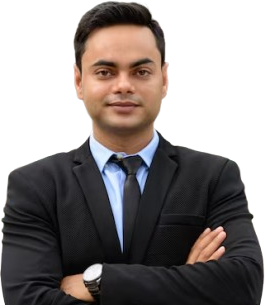
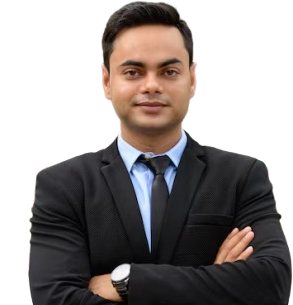
frontend: foto di kartu konsultan, 12 foto tanpa wajah kembar, penanda fokus marun
- Kartu direktori konsultan: kotak inisial diganti bingkai foto marun (foto sama dengan banner popup)
- 12 foto konsultan (6 pria, 6 wanita); dibagi berurutan per kelompok mengikuti urutan daftar sehingga
  satu halaman tidak berisi wajah kembar; popup memakai foto yang sama dengan kartunya
- Foto dirapikan: ruang transparan dibuang, dipotong sampai pinggang, kepala diletakkan tepat di tengah
- Penanda fokus global: garis marun tipis (putih di atas latar marun), menggantikan kotak emas + bayangan hitam

diff --git a/frontend/components/DirektoriKonsultan.tsx b/frontend/components/DirektoriKonsultan.tsx
@@ -1,7 +1,9 @@
 "use client";
 import { useEffect, useState } from "react";
+import Image from "next/image";
 import Link from "next/link";
 import { cariKonsultan, getKategoriKasus, getLokasi } from "@/lib/api";
+import { petaFotoKonsultan } from "@/lib/foto-konsultan";
 import { PROVINSI } from "@/lib/provinsi";
 import type { HasilKonsultan, KategoriKasus, Konsultan, Profesi } from "@/types/api";
 import DetailKonsultan from "./DetailKonsultan";
@@ -10,10 +12,20 @@ import { btn, container, Notice, Panel } from "./ui";
 
 const PROFESI: Record<Profesi, string> = { notaris_ppat: "Notaris/PPAT", advokat: "Advokat" };
 
-type Pilih = (k: Konsultan, profesi: Profesi) => void;
+type Pilih = (k: Konsultan, profesi: Profesi, foto?: string) => void;
 
 // Seluruh kartu bisa diklik untuk membuka popup detail
-function KartuKonsultan({ k, namaKategori, onPilih }: { k: Konsultan; namaKategori: (id: string) => string; onPilih: () => void }) {
+function KartuKonsultan({
+  k,
+  foto,
+  namaKategori,
+  onPilih,
+}: {
+  k: Konsultan;
+  foto?: string;
+  namaKategori: (id: string) => string;
+  onPilih: () => void;
+}) {
   const inisial = k.nama.replace(/^(Dr\.|H\.|Hj\.)\s*/i, "").charAt(0).toUpperCase();
   return (
     <button
@@ -23,9 +35,23 @@ function KartuKonsultan({ k, namaKategori, onPilih }: { k: Konsultan; namaKatego
       className="lift group flex h-full w-full flex-col rounded-3xl border border-line bg-surface p-5 text-left shadow-soft hover:border-primary/40"
     >
       <div className="flex items-start gap-4">
-        <span className="flex size-12 shrink-0 items-center justify-center rounded-2xl bg-primary-soft text-lg font-bold text-primary" aria-hidden>
-          {inisial}
-        </span>
+        {foto ? (
+          // Foto yang sama dengan banner popup detail, di bingkai marun kecil (diperbesar ke kepala-bahu)
+          <span className="relative size-14 shrink-0 overflow-hidden rounded-2xl bg-[#650000]" aria-hidden>
+            <Image
+              src={foto}
+              alt=""
+              fill
+              sizes="56px"
+              unoptimized={foto.startsWith("http")}
+              className="origin-top scale-[1.35] object-cover object-top"
+            />
+          </span>
+        ) : (
+          <span className="flex size-14 shrink-0 items-center justify-center rounded-2xl bg-primary-soft text-lg font-bold text-primary" aria-hidden>
+            {inisial}
+          </span>
+        )}
         <div className="min-w-0 flex-1">
           <h3 className="font-bold text-ink">{k.nama}</h3>
           <p className="mt-1 flex items-center gap-1.5 text-sm text-ink-soft">
@@ -126,6 +152,7 @@ function Bagian({
   const [posisi, setPosisi] = useState({ kunci: resetKey, page: 1 });
   const page = posisi.kunci === resetKey ? posisi.page : 1;
   const setPage = (p: number) => setPosisi({ kunci: resetKey, page: p });
+  const peta = petaFotoKonsultan(daftar);
   const totalPages = Math.max(1, Math.ceil(daftar.length / PER_PAGE));
   const halaman = daftar.slice((page - 1) * PER_PAGE, page * PER_PAGE);
   const lokasi = kota ? `${kota}, ${provinsi}` : provinsi;
@@ -139,7 +166,7 @@ function Bagian({
           <ul className="mt-3 grid grid-cols-1 gap-4 md:grid-cols-2">
             {halaman.map((k, i) => (
               <li key={k.id} className="fade-up" style={{ animationDelay: `${i * 60}ms` }}>
-                <KartuKonsultan k={k} namaKategori={namaKategori} onPilih={() => onPilih(k, profesi)} />
+                <KartuKonsultan k={k} foto={peta.get(k.id)} namaKategori={namaKategori} onPilih={() => onPilih(k, profesi, peta.get(k.id))} />
               </li>
             ))}
           </ul>
@@ -163,8 +190,8 @@ export default function DirektoriKonsultan({ kategoriAwal }: { kategoriAwal?: st
   const [lokasi, setLokasi] = useState<Record<string, string[]>>({});
   const [ulang, setUlang] = useState(0);
   const [hasil, setHasil] = useState<{ kunci: string; data?: HasilKonsultan; error?: string } | null>(null);
-  const [dipilih, setDipilih] = useState<{ k: Konsultan; profesi: Profesi } | null>(null);
-  const pilih: Pilih = (k, profesi) => setDipilih({ k, profesi });
+  const [dipilih, setDipilih] = useState<{ k: Konsultan; profesi: Profesi; foto?: string } | null>(null);
+  const pilih: Pilih = (k, profesi, foto) => setDipilih({ k, profesi, foto });
   const kunci = `${kategori}|${provinsi}|${kota}|${ulang}`;
   const memuat = !!kategori && hasil?.kunci !== kunci;
   const kotaTersedia = provinsi ? lokasi[provinsi] ?? [] : [];
@@ -317,6 +344,7 @@ export default function DirektoriKonsultan({ kategoriAwal }: { kategoriAwal?: st
 
       <DetailKonsultan
         konsultan={dipilih?.k ?? null}
+        foto={dipilih?.foto}
         profesi={dipilih ? PROFESI[dipilih.profesi] : ""}
         namaKategori={namaKategori}
         onClose={() => setDipilih(null)}

diff --git a/frontend/lib/foto-konsultan.ts b/frontend/lib/foto-konsultan.ts
@@ -3,9 +3,10 @@ import type { Konsultan } from "@/types/api";
 // Foto banner detail konsultan. Data dummy belum punya field `foto`, jadi foto dipilih dari public/konsultan
 // sesuai nama depan, bergiliran berdasarkan nomor id. Kalau data sudah membawa `foto`, itu yang dipakai.
 // Nama yang tidak ada di daftar di bawah tetap memakai lingkaran inisial.
+// 6 foto per kelompok: dengan giliran berdasarkan nomor id, satu halaman direktori (8 kartu) jarang berisi wajah kembar
 const FOTO = {
-  pria: ["/konsultan/notaris1.png", "/konsultan/notaris2.png", "/konsultan/notaris5.png"],
-  wanita: ["/konsultan/notaris3.png", "/konsultan/notaris4.png", "/konsultan/notaris6.png"],
+  pria: [1, 2, 5, 10, 11, 12].map((n) => `/konsultan/notaris${n}.png`),
+  wanita: [3, 4, 6, 7, 8, 9].map((n) => `/konsultan/notaris${n}.png`),
 };
 
 // Kelompok nama depan mengikuti NAMA_DEPAN di data_engineer/scripts/10_make_konsultan_dummy.py,
@@ -35,12 +36,36 @@ const NAMA_LENGKAP: Record<string, keyof typeof FOTO> = {
   "Andi Nurul Fadillah": "wanita",
 };
 
-export function fotoKonsultan(k: Konsultan): string | undefined {
-  if (k.foto) return k.foto;
+function kelompokFoto(k: Konsultan): keyof typeof FOTO | undefined {
   const nama = k.nama.split(",")[0].replace(/^((Dr|H|Hj|Prof)\.\s*)+/i, "").trim();
   const depan = nama.split(/\s+/)[0];
-  const kelompok = NAMA_LENGKAP[nama] ?? (depan === "Andi" ? undefined : PRIA.has(depan) ? "pria" : WANITA.has(depan) ? "wanita" : undefined);
+  return NAMA_LENGKAP[nama] ?? (depan === "Andi" ? undefined : PRIA.has(depan) ? "pria" : WANITA.has(depan) ? "wanita" : undefined);
+}
+
+// Foto satu konsultan tanpa konteks daftar (bergiliran menurut nomor id)
+export function fotoKonsultan(k: Konsultan): string | undefined {
+  if (k.foto) return k.foto;
+  const kelompok = kelompokFoto(k);
   if (!kelompok) return undefined;
   const daftar = FOTO[kelompok];
   return daftar[(parseInt(k.id.replace(/\D/g, ""), 10) || 0) % daftar.length];
+}
+
+// Foto untuk satu daftar yang sedang ditampilkan: dibagi berurutan per kelompok (pria/wanita) mengikuti urutan
+// daftar, jadi kartu yang berdekatan (satu halaman berisi 8) hampir tidak pernah berwajah sama.
+// Giliran menurut nomor id saja masih menghasilkan wajah kembar karena id berselisih 6 bisa sekelompok.
+export function petaFotoKonsultan(daftar: Konsultan[]): Map<string, string> {
+  const hitung = { pria: 0, wanita: 0 };
+  const peta = new Map<string, string>();
+  for (const k of daftar) {
+    if (k.foto) {
+      peta.set(k.id, k.foto);
+      continue;
+    }
+    const kelompok = kelompokFoto(k);
+    if (!kelompok) continue;
+    const foto = FOTO[kelompok];
+    peta.set(k.id, foto[hitung[kelompok]++ % foto.length]);
+  }
+  return peta;
 }

diff --git a/frontend/components/DetailKonsultan.tsx b/frontend/components/DetailKonsultan.tsx
@@ -27,11 +27,13 @@ function Baris({ icon, label, children }: { icon: IconName; label: string; child
 // Popup detail satu Notaris/PPAT atau advokat. Kompatibel dengan data lama (kontak) dan baru (telepon, peta, jadwal, tarif).
 export default function DetailKonsultan({
   konsultan: k,
+  foto: fotoKartu,
   profesi,
   namaKategori,
   onClose,
 }: {
   konsultan: Konsultan | null;
+  foto?: string; // foto yang sama dengan kartu yang diklik
   profesi: string;
   namaKategori: (id: string) => string;
   onClose: () => void;
@@ -53,7 +55,7 @@ export default function DetailKonsultan({
     .slice(0, 2)
     .map((kata) => kata.charAt(0).toUpperCase())
     .join("");
-  const foto = k ? fotoKonsultan(k) : undefined;
+  const foto = fotoKartu ?? (k ? fotoKonsultan(k) : undefined);
   const telepon = bersih(k?.telepon);
   const jadwal = bersih(k?.jadwal);
   const tarif = bersih(k?.tarif);

diff --git a/frontend/app/page.tsx b/frontend/app/page.tsx
@@ -47,7 +47,7 @@ export default function Home() {
     // overflow-x-clip: kartu timeline yang menunggu meluncur masuk dari samping tidak boleh membuat halaman bisa digeser ke samping di HP
     <main className="overflow-x-clip">
       {/* Pembuka: satu layar penuh, maroon dengan foto patung keadilan di latar */}
-      <section className={`relative overflow-hidden bg-[#650000] ${NAV_OFFSET} flex min-h-svh flex-col text-white`}>
+      <section className={`latar-gelap relative overflow-hidden bg-[#650000] ${NAV_OFFSET} flex min-h-svh flex-col text-white`}>
         <HeroBackdrop />
         <div className={`${container} relative flex flex-1 items-center py-16`}>
           <div className="fade-up max-w-3xl">

diff --git a/frontend/app/globals.css b/frontend/app/globals.css
@@ -48,11 +48,15 @@ body {
   font-family: var(--font-sans);
 }
 
-/* Fokus keyboard: emas + cincin gelap, terlihat di latar terang maupun maroon */
+/* Fokus keyboard: garis marun tipis (tanpa emas/hitam, permintaan user). Di atas latar marun
+   (pembuka beranda, banner halaman, footer) garisnya putih supaya tetap terlihat. */
 :focus-visible {
-  outline: 3px solid var(--color-accent);
-  outline-offset: 0;
-  box-shadow: 0 0 0 6px var(--color-ink);
+  outline: 2px solid var(--color-secondary);
+  outline-offset: 2px;
+}
+.hero-bg :focus-visible,
+.latar-gelap :focus-visible {
+  outline-color: #fff;
 }
 
 /* Kolom ketik yang bingkai luarnya sudah menyala saat fokus (focus-within), mis. kolom chat:
